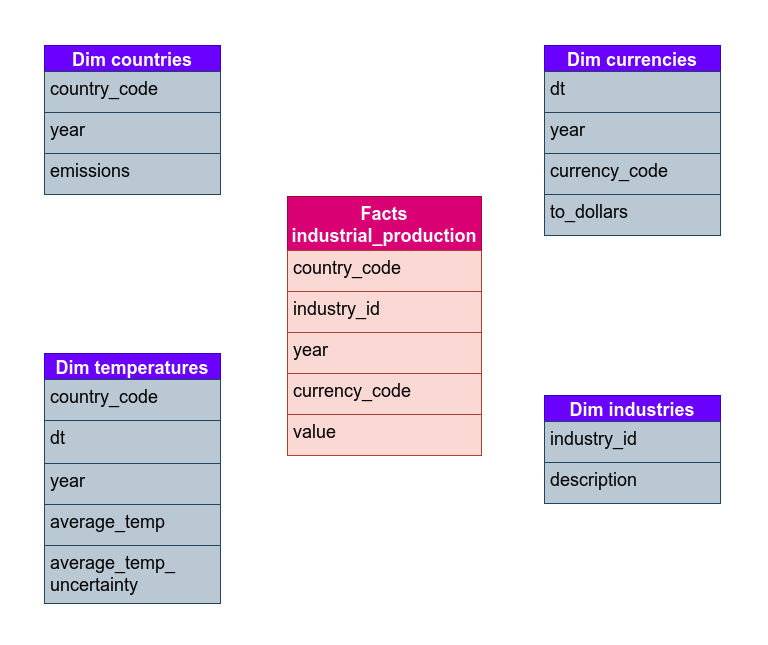
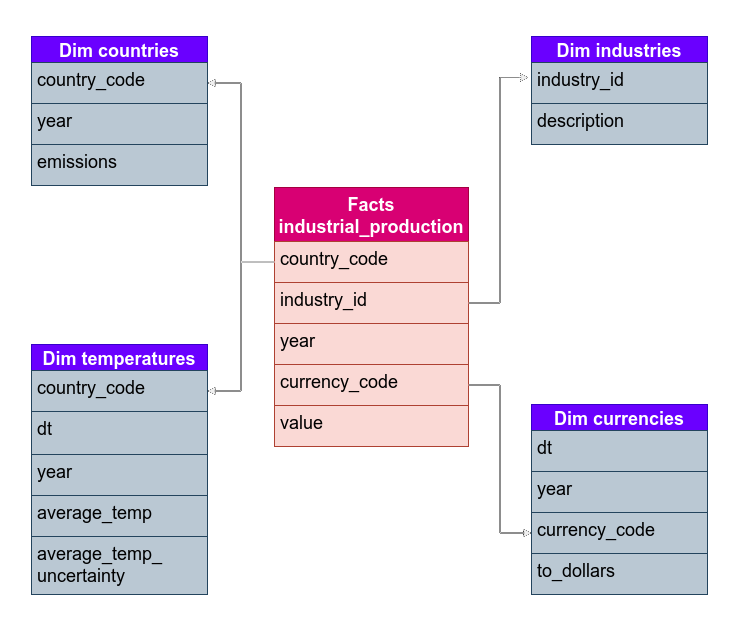
Improved readme and schema.png

diff --git a/README.md b/README.md
@@ -2,11 +2,11 @@
 
 This project was built as the Capstone project of Udacity's Data Engineering Nanodegree. This readme contains the following sections:
 
-- 1. Project Scope
-- 2. Data Sources
-- 3. Data Warehouse design
-- 4. Project structure
-- 5. Further discussion
+1. Project Scope
+2. Data Sources
+3. Data Warehouse design
+4. Project structure
+5. Further discussion
 
 ## 1. Project Scope
 
@@ -19,8 +19,11 @@ Finally, to get the insights, a **Dashboard** tool like Tableau or Power BI coul
 ## 2. Data Sources
 
 [Climate Change: Earth Surface Temperature Data](https://www.kaggle.com/berkeleyearth/climate-change-earth-surface-temperature-data)
+
 [Annual CO2 emissions per country](https://ourworldindata.org/co2-and-other-greenhouse-gas-emissions#co2-in-the-atmosphere)
+
 [STAN Industrial Analysis](https://stats.oecd.org/Index.aspx?DataSetCode=STANI4_2016)
+
 [Foreign Exchange Rates 2000-2019](https://www.kaggle.com/brunotly/foreign-exchange-rates-per-dollar-20002019)
 
 ### Climate Change: Earth Surface Temperature Data
